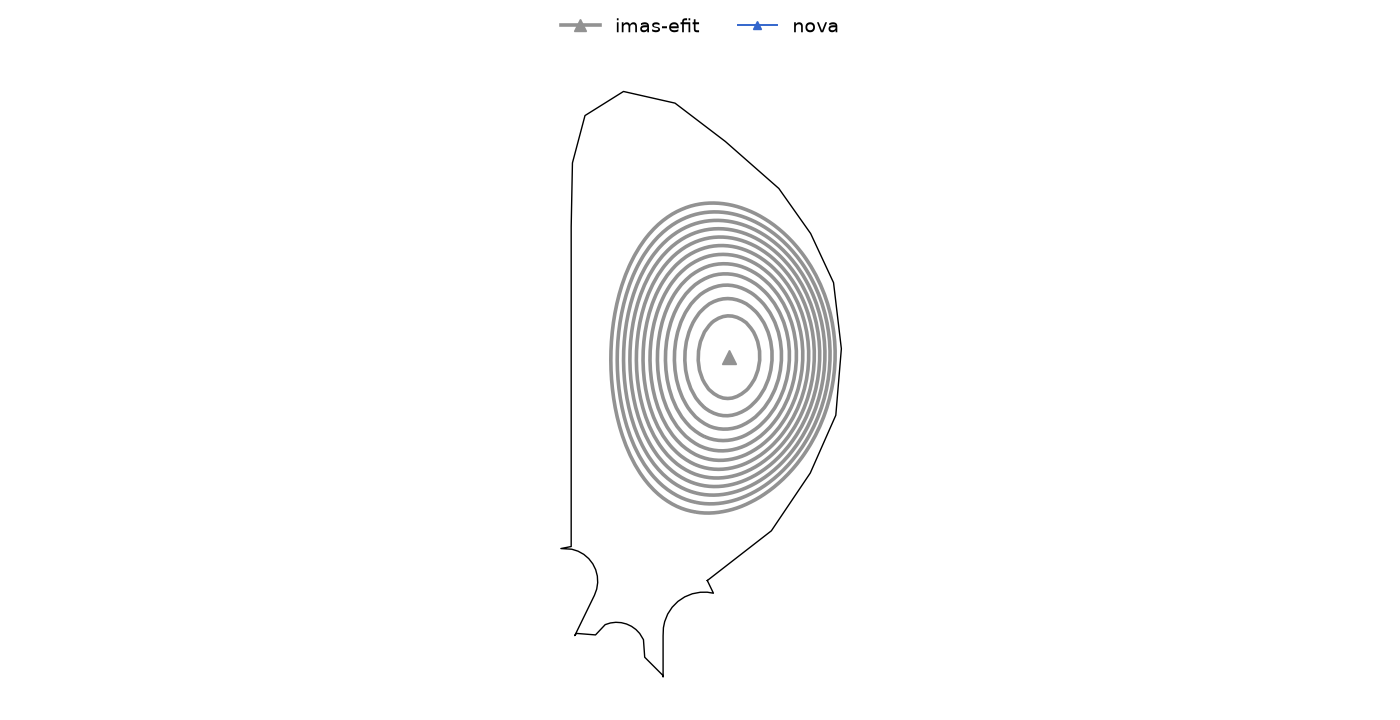
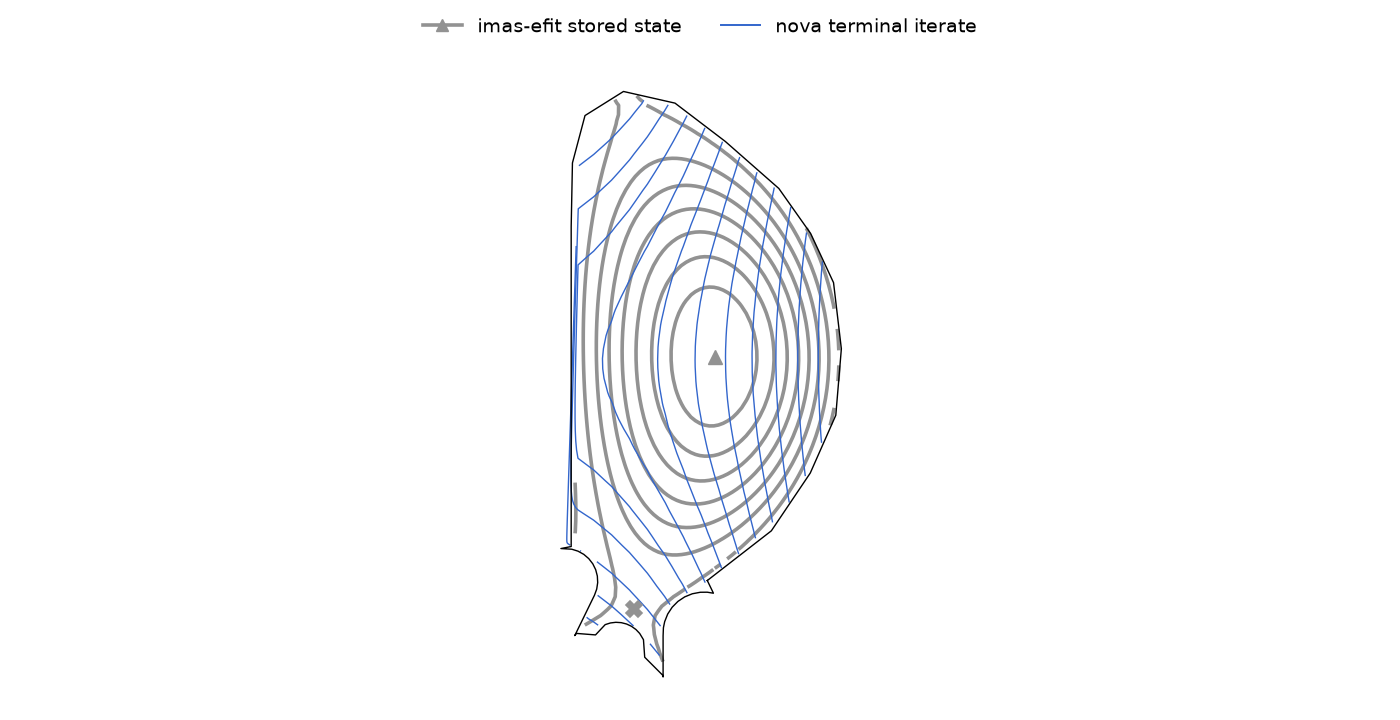
fix: publish the panels preview in step with the panel it previews
The six SVGs were redrawn on one shared level array while the two published PNG
previews beside them were not regenerated, so each preview still carried no
blue ink below the legend: 127 blue pixels, every one the legend swatch, while
the legend announced a nova series. A reader opening the preview saw the stored
field alone and could not tell a refused arm from a converged one.

copy_figures now copies the preview beside the SVG it copies, so a published
preview is refreshed from the panel it previews and a repaired panel cannot sit
beside a stale PNG. A panel with no published preview is not given one, because
the four MAST-U arms render one byte-identical PNG while their SVGs differ.
panels.preview_series counts each series' ink below the legend band, and the
published-preview test asks the published pixels: each preview now carries
thousands of nova ink pixels below that band, which the reverted previews fail
at zero.

Changed region(s): [[0.3993, 0.1222, 0.6143, 0.9167], [0.3071, 0.0306, 0.5221, 0.0611], [0.5529, 0.0306, 0.7064, 0.0611]]

diff --git a/scripts/prototypes/stored_state_refusals/report.py b/scripts/prototypes/stored_state_refusals/report.py
@@ -95,11 +95,13 @@ def arm_row(label, record):
 
 
 def copy_figures(records_map):
-    """Copy the panels the fragment cites; the harness previews are not cited.
+    """Copy the panels the fragment cites, with the preview beside each one.
 
-    figure.savefig(preview, dpi=100) writes one byte-identical PNG for every
-    MAST-U arm while the SVGs differ, so a preview adds no evidence and is
-    not published.
+    A preview that is published is refreshed from the panel it previews, so a
+    repaired SVG cannot sit beside a PNG that still shows the defect the repair
+    removed. A panel with no published preview is not given one: the four
+    MAST-U arms render one byte-identical PNG while their SVGs differ, so a new
+    preview would add files and no evidence.
     """
     FIGURES.mkdir(parents=True, exist_ok=True)
     for label in LABELS:
@@ -118,6 +120,10 @@ def copy_figures(records_map):
             panel.update(panels.drawn_counts(svg))
             panels.write_description(svg, panels.caption(panel))
         shutil.copy2(svg, FIGURES / svg.name)
+        preview = svg.parent / (svg.stem + "-preview.png")
+        published = FIGURES / preview.name
+        if preview.is_file() and published.is_file():
+            shutil.copy2(preview, published)
 
 
 def figure(label, record, caption):

diff --git a/scripts/prototypes/stored_state_refusals/panels.py b/scripts/prototypes/stored_state_refusals/panels.py
@@ -324,3 +324,29 @@ def drawn_series(path) -> dict:
                 if f"stroke: {colour}" in style:
                     counts[series] += 1
     return counts
+
+
+PREVIEW_LEGEND_BAND = 60
+"""Rows above this line hold the legend swatch and no plot ink."""
+
+PREVIEW_INK = {"imas-efit": (146, 146, 146), "nova": (51, 102, 204)}
+"""The RGB each series is stroked with, ``#929292`` and ``#3366cc``."""
+
+
+def preview_series(path, tolerance: int = 60) -> dict:
+    """Count each series' ink in a panel's PNG preview below the legend band.
+
+    The SVG carries the paths, and this asks the same question of the pixels a
+    browsed artifact shows. The legend swatch is excluded by row, because a
+    preview whose only blue is the swatch advertises a series it does not
+    contain, which is how a stale preview survived beside repaired SVGs.
+    """
+    from PIL import Image
+
+    pixels = np.asarray(Image.open(path).convert("RGB"), dtype=int)
+    plot = pixels[PREVIEW_LEGEND_BAND:]
+    counts = {}
+    for series, reference in PREVIEW_INK.items():
+        near = np.abs(plot - np.asarray(reference)).max(axis=-1) <= tolerance
+        counts[series] = int(near.sum())
+    return counts

diff --git a/scripts/prototypes/stored_state_refusals/test_panel_visibility.py b/scripts/prototypes/stored_state_refusals/test_panel_visibility.py
@@ -68,3 +68,23 @@ def test_published_panels_draw_both_series():
         ]
         assert descriptions and (descriptions[0].text or "").strip(), path.name
     assert empty == {}
+
+
+def test_published_previews_draw_the_blue_series():
+    """A preview must not advertise a series its own pixels do not contain.
+
+    The repaired SVGs carried the nova contours while the PNG beside them still
+    showed the stored field alone: 127 blue pixels, all of them the legend
+    swatch. The check asks the pixels below the legend band.
+    """
+    previews = {path.name: path for path in PUBLISHED.glob("*-preview.png")}
+    assert {
+        "iter-iter-stored-default-preview.png",
+        "tcv-tcv-stored-default-preview.png",
+    } <= set(previews)
+    empty = {}
+    for name, path in previews.items():
+        counts = panels.preview_series(path)
+        if counts["nova"] < 100:
+            empty[name] = counts
+    assert empty == {}
